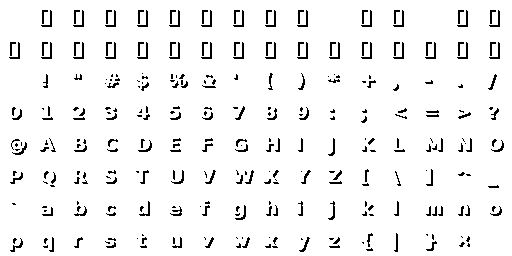
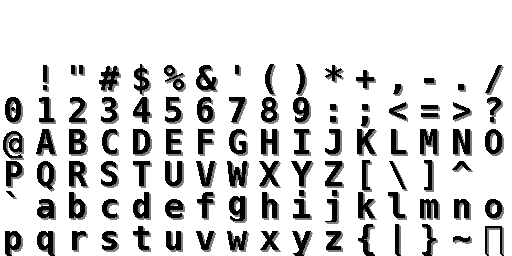
Alpha blending fixed

diff --git a/js/core/graphics.js b/js/core/graphics.js
@@ -198,7 +198,7 @@ graph.init = function() {
     // Get canvas
     graph.canvas = document.getElementById("webgl_canvas");
     // Get GL context
-    graph.glctx = graph.canvas.getContext("webgl");
+    graph.glctx = graph.canvas.getContext("webgl", {alpha:false});
     if(graph.glctx == null) {
 
         throw new DOMException("Failed to initialize WebGL context!");
@@ -217,8 +217,9 @@ graph.init = function() {
     // Enable GL content & other things
     var gl = graph.glctx;
     gl.activeTexture(gl.TEXTURE0);
-    gl.blendFunc(gl.SRC_ALPHA, gl.ONE_MINUS_SRC_ALPHA);
+    gl.disable(gl.DEPTH_TEST);
     gl.enable( gl.BLEND );
+    gl.blendFuncSeparate(gl.SRC_ALPHA, gl.ONE_MINUS_SRC_ALPHA, gl.ONE, gl.ONE_MINUS_SRC_ALPHA);
 
     // Bind buffers
     graph.bind_buffers();
@@ -297,7 +298,7 @@ graph.fill_rectangle = function(x, y, w, h) {
  */
 graph.set_color = function(r, g, b, a) {
 
-    this.defShader.set_unif_color(r, g, b, a);
+    this.defShader.set_unif_color(r, g, b , a );
 }
 
 

diff --git a/js/game/game.js b/js/game/game.js
@@ -49,13 +49,13 @@ game.draw = function() {
     graph.draw_bitmap(assets.bitmaps.test, 256,256, FLIP_V | FLIP_H);
     graph.draw_bitmap_region(assets.bitmaps.test, 32,32,96,64, 512, 64, FLIP_H);
 
-    graph.set_color(255, 0,0,255);
+    graph.set_color(1, 0,0,1);
     var p = input.cursor_pos();
     graph.fill_rectangle(p.x, p.y, 16, 16);
 
     tr.identity();
     tr.use_transform();
-    graph.set_color(255, 255,255,255);
+    graph.set_color(1, 1,1,1);
     graph.draw_text(assets.bitmaps.font, "Hello,\nworld!",2,2,-12,0,false);
     
 }

diff --git a/js/core/bitmap.js b/js/core/bitmap.js
@@ -20,6 +20,6 @@ var Bitmap = function(img) {
 
     gl.texParameteri(gl.TEXTURE_2D, gl.TEXTURE_WRAP_S, gl.CLAMP_TO_EDGE);
     gl.texParameteri(gl.TEXTURE_2D, gl.TEXTURE_WRAP_T, gl.CLAMP_TO_EDGE);
-    gl.texParameteri(gl.TEXTURE_2D, gl.TEXTURE_MIN_FILTER, gl.NEAREST);
-    gl.texParameteri(gl.TEXTURE_2D, gl.TEXTURE_MAG_FILTER, gl.NEAREST);
+    gl.texParameteri(gl.TEXTURE_2D, gl.TEXTURE_MIN_FILTER, gl.LINEAR);
+    gl.texParameteri(gl.TEXTURE_2D, gl.TEXTURE_MAG_FILTER, gl.LINEAR);
 }
